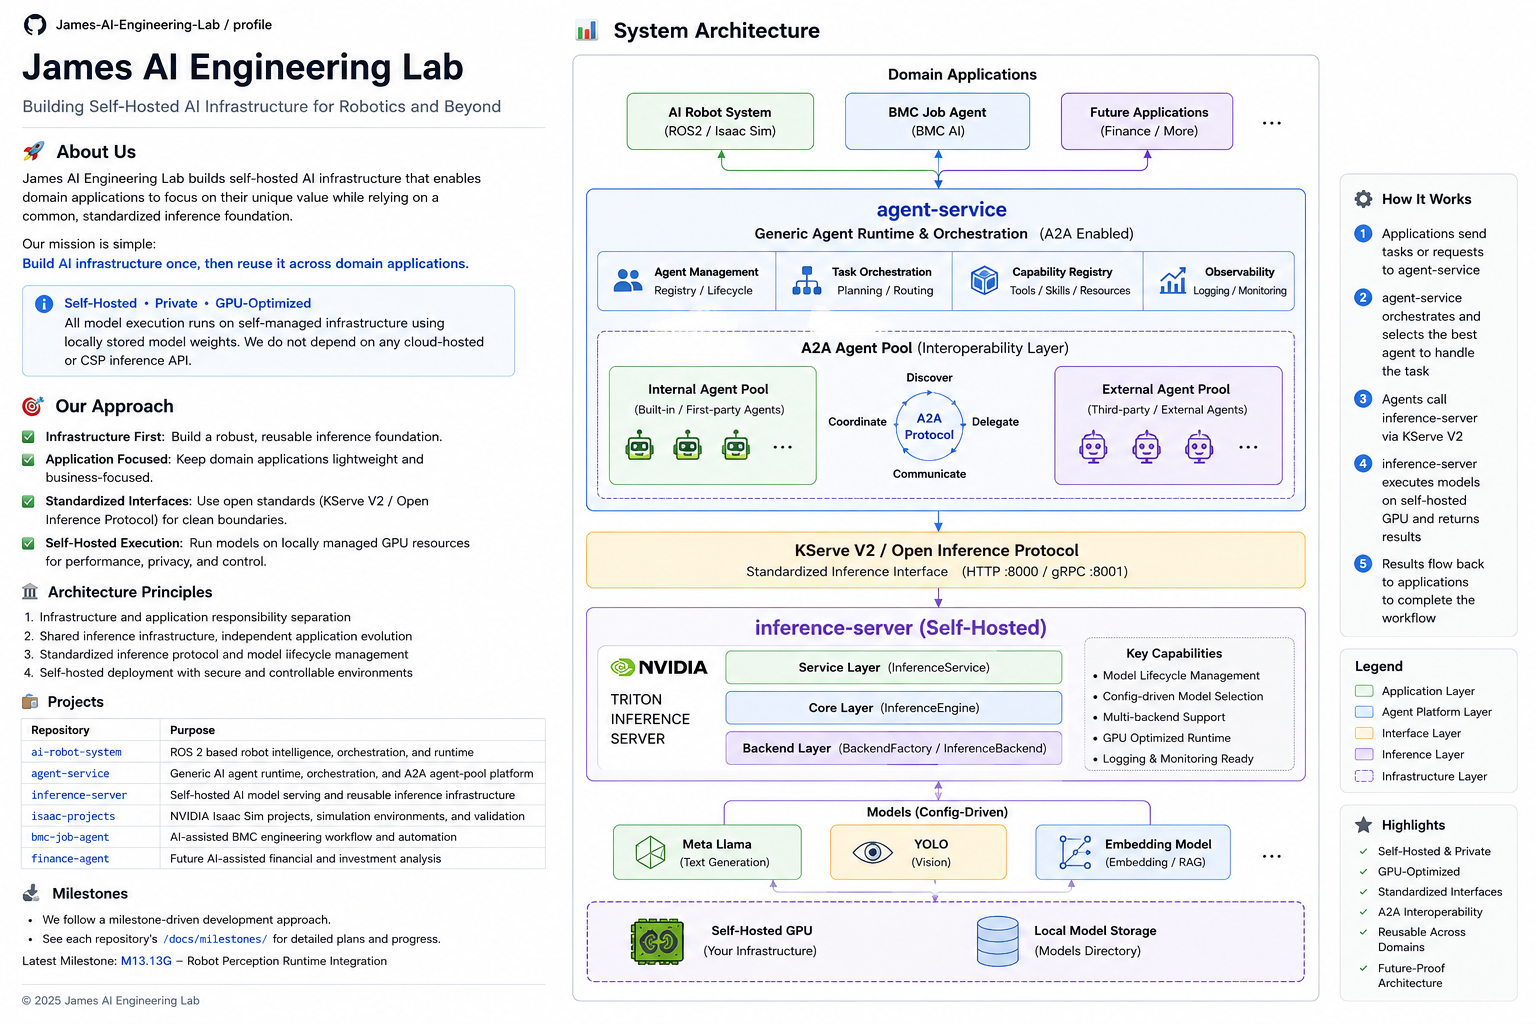
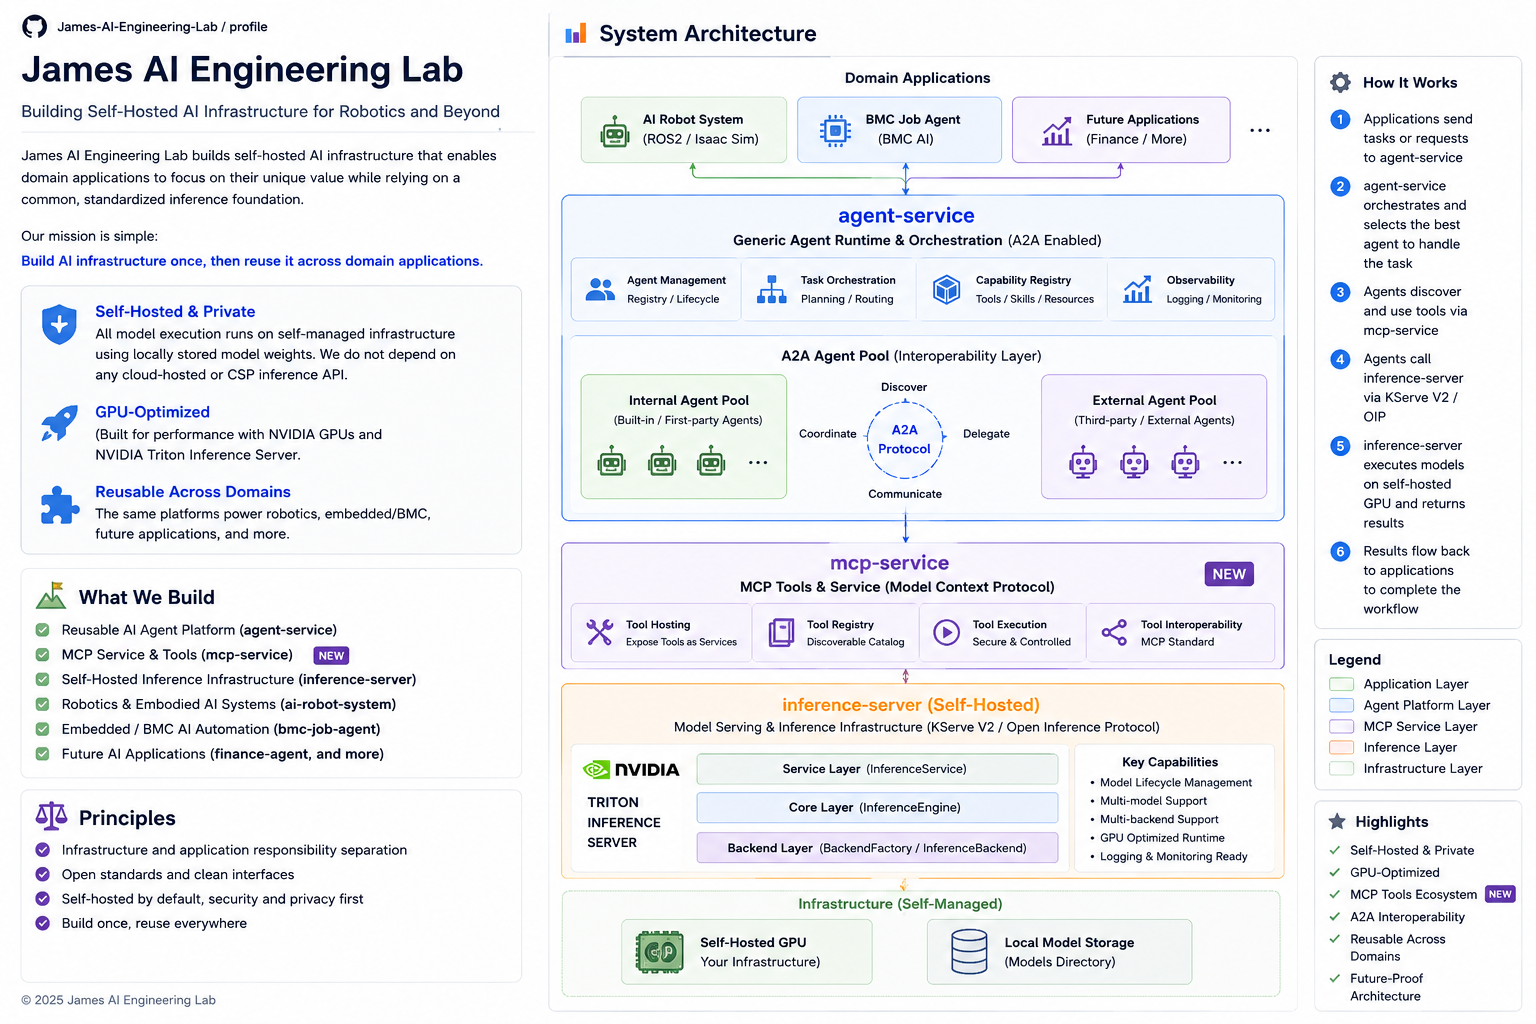
Update architecture with MCP service

Changed region(s): [[0.0, 0.0, 1.0, 1.0], [0.3438, 0.0, 0.5312, 0.0625]]

diff --git a/profile/README.md b/profile/README.md
@@ -27,6 +27,12 @@ The platform is designed to connect both **internal agent runtimes** and
 **external A2A agents**, while domain knowledge, tools, policies, and
 execution remain in the corresponding applications or adapters.
 
+### MCP & Tool Integration
+
+Building a reusable, domain-agnostic **mcp-service** based on the **Model Context Protocol (MCP)** so AI agents can connect to tools, data, and external systems through a standard interface.
+
+This keeps Robot, BMC, Finance, and future domain capabilities independent from the shared agent platform.
+
 ### AI Infrastructure
 
 Designing reusable, containerized, **self-hosted model-serving
@@ -94,6 +100,12 @@ The public profile intentionally presents the **platform capabilities
 and boundaries** without exposing internal routing, delegation,
 runtime-selection, prompt, or agent-pool implementation details.
 
+### `mcp-service`
+
+Generic MCP service shared by agent-based applications.
+
+Its role is simple: provide a standard bridge between AI agents and reusable tools, data, and domain capabilities without putting domain-specific implementation inside the common AI platform.
+
 ### `inference-server`
 
 General-purpose, self-hosted AI inference infrastructure shared by
@@ -154,6 +166,9 @@ agent-service
                                       orchestration, and A2A agent-pool
                                       platform
 
+  `mcp-service`                       Generic MCP service for reusable
+                                      tools, data, and capability access
+
   `inference-server`                  Self-hosted AI model serving and
                                       reusable inference infrastructure
 
@@ -183,26 +198,17 @@ agent-service
                +------------------+------------------+
                                   |
                                   v
-                     +--------------------------+
-                     |      agent-service       |
-                     | Generic Agent Platform   |
-                     | Runtime / Orchestration  |
-                     |      A2A Agent Pool      |
-                     +------+-------------+-----+
-                            |             |
-                  Internal  |             | A2A
-                   Agents   |             v
-                            |       External Agents
-                            |
-                            v
-                  KServe V2 / Open Inference
-                            |
-                            v
-                     inference-server
-                   NVIDIA Triton / Models
-                            |
-                            v
-                Self-Hosted GPU + Model Store
+                         agent-service
+                  Agent Runtime / A2A Platform
+                         /           \
+                        /             \
+                       v               v
+                mcp-service      inference-server
+               Tools / Data       Model Serving
+                    |                  |
+                    v                  v
+             Domain Systems      Self-Hosted GPU
+             & Capabilities       + Model Store
 ```
 
 This public architecture intentionally shows **what the platform does
@@ -253,19 +259,23 @@ Natural Language / Sensors
     common agent platform, with A2A used for agent-to-agent
     interoperability.
 
-4.  **Separate agent orchestration from model serving**\
+4.  **Use MCP for reusable tool and data integration**\
+    `mcp-service` provides a standard bridge from agents to tools, data,
+    and domain capabilities.
+
+5.  **Separate agent orchestration from model serving**\
     `agent-service` handles agent behavior; `inference-server` handles
     model execution.
 
-5.  **Standardize the inference boundary**\
+6.  **Standardize the inference boundary**\
     KServe V2 / Open Inference Protocol keeps model clients independent
     from concrete model implementations.
 
-6.  **Keep model selection configuration-driven**\
+7.  **Keep model selection configuration-driven**\
     Current and planned model-family direction includes Meta --- Llama,
     Google --- Gemma, and NVIDIA --- Cosmos.
 
-7.  **Self-host model execution**\
+8.  **Self-host model execution**\
     Models run on self-managed compute with locally managed model
     weights.
 
@@ -278,6 +288,9 @@ Domain Application / Adapter
 agent-service
     = generic agent runtime + orchestration
       + internal/external A2A agent pool
+
+mcp-service
+    = MCP-based tools + data + capability access
 
 inference-server
     = model execution + lifecycle + GPU serving
@@ -295,11 +308,14 @@ Application / Adapter -> agent-service
 Agent <-> Agent
     A2A
 
+agent-service -> mcp-service
+    MCP (Model Context Protocol)
+
 agent-service -> inference-server
     KServe V2 / Open Inference Protocol
 
-Agent -> Tool / Data
-    Domain-owned integration
+mcp-service -> Tool / Data / Domain System
+    Domain-owned capability integration
 ```
 
 ## Repository Boundaries
@@ -310,6 +326,9 @@ are designed to evolve as independently maintained platform components:
 ``` text
 agent-service
     generic agent runtime and A2A interoperability platform
+
+mcp-service
+    reusable MCP tool and capability integration
 
 inference-server
     reusable AI inference infrastructure
@@ -326,6 +345,6 @@ independently.
 
 ## Technology Direction
 
-`Docker` · `AI Agent Runtime` · `A2A` · `Agent Pool` · `NVIDIA Triton` ·
+`Docker` · `AI Agent Runtime` · `A2A` · `MCP` · `Agent Pool` · `NVIDIA Triton` ·
 `KServe V2` · `Open Inference Protocol` · `Self-Hosted GPU Inference` ·
 `ROS 2` · `NVIDIA Isaac Sim` · `Meta Llama` · `Computer Vision`
